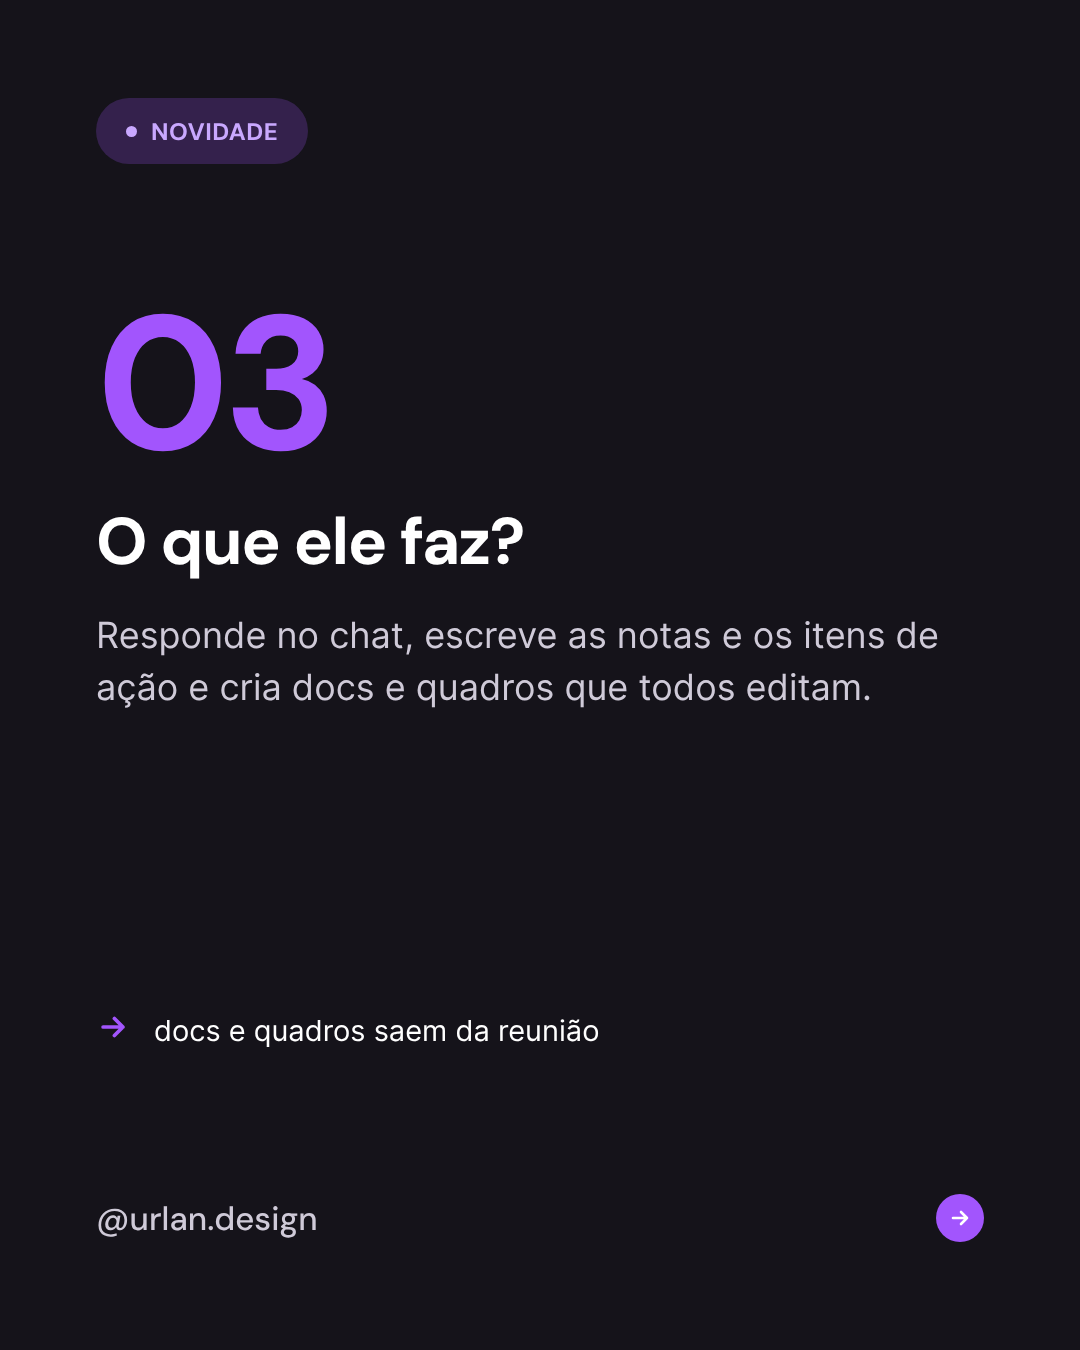
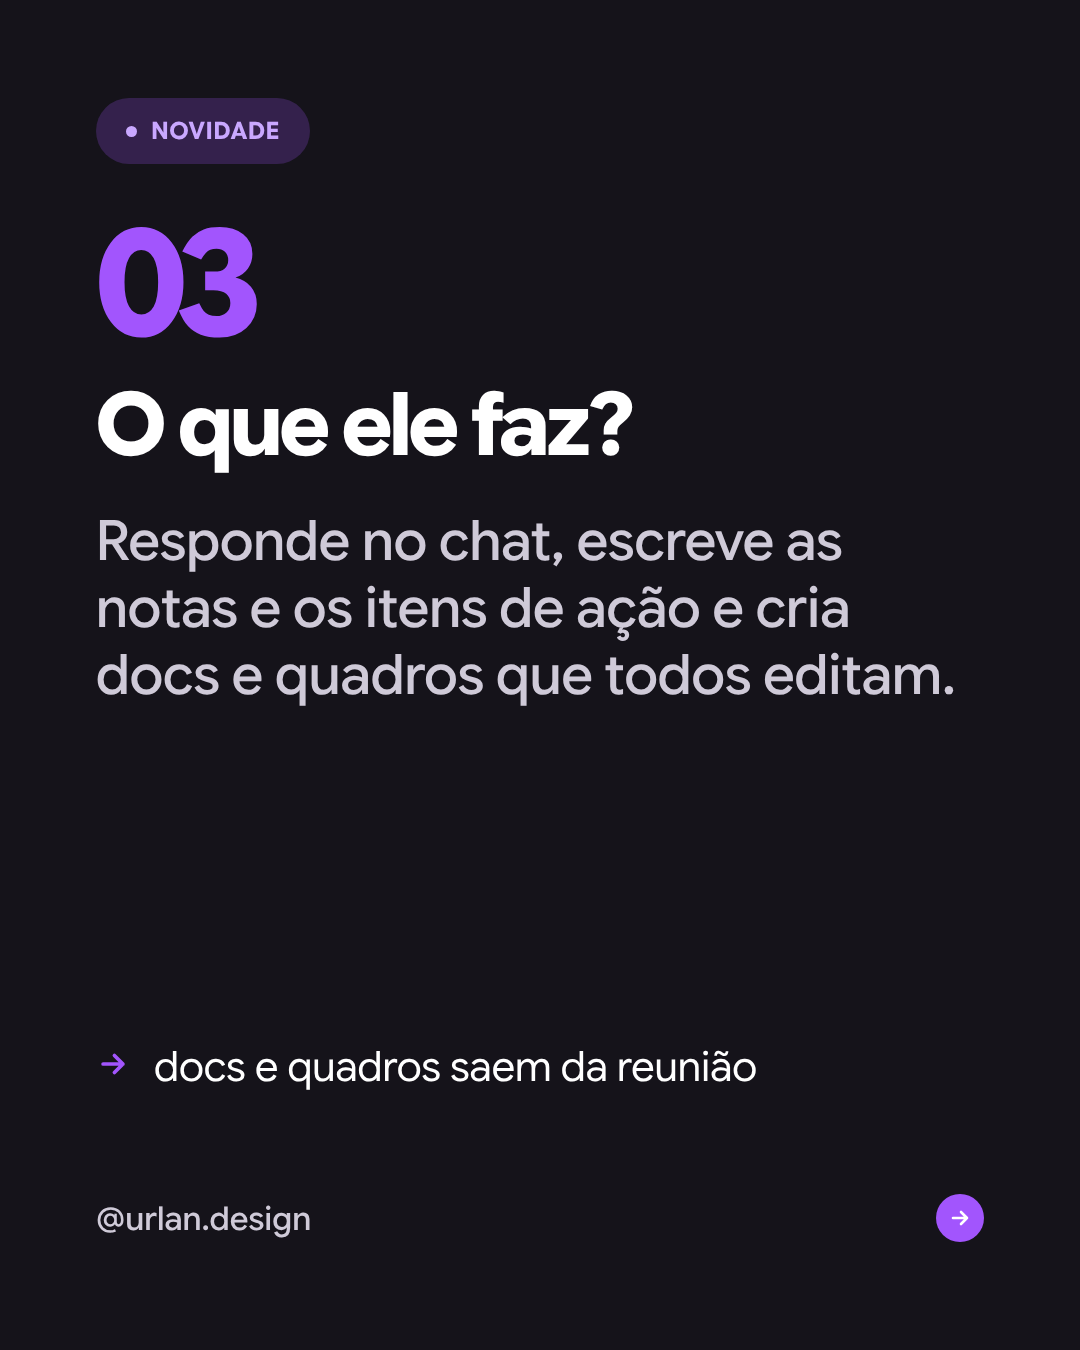
Estilo alternado com opcao grande (fonte maior) nos posts Meetings e Repos parte 3
Claude-Session: https://claude.ai/code/session_01DwYVZ4p9qWAPLeHrrQbmUv

diff --git a/template/render.py b/template/render.py
@@ -342,7 +342,8 @@ def alt_hi(body, destaque, color):
 
 
 def alt_frame(p, th, inner, take):
-    take_html = (f'<div style="position:absolute;left:96px;right:96px;top:1010px;display:flex;align-items:center;gap:24px;font-size:29px;color:{th["take"]}">'
+    big = p.get("grande")
+    take_html = (f'<div style="position:absolute;left:96px;right:96px;top:{1040 if big else 1010}px;display:flex;align-items:center;gap:24px;font-size:{42 if big else 29}px;color:{th["take"]}">'
                  f'<span style="flex:none">{arrow_svg(th["arrow"]).replace("24", "34", 2)}</span><span>{e(take)}</span></div>') if take else ""
     return f"""
 <div class="s" style="background:{th['bg']};color:{th['title']}">
@@ -365,14 +366,21 @@ def alt_content(p, i, s):
   </div>"""
     elif layout == "limite":
         inner = f"""
-  <div style="position:absolute;top:290px;left:96px;right:110px">
-    <div class="h" style="font-size:190px;line-height:1;letter-spacing:-6px;color:{th['num']}">{i:02d}</div>
-    <h2 class="h" style="font-size:66px;line-height:1.1;margin-top:26px;letter-spacing:-1.5px;color:{th['title']}">{e(s['title'])}</h2>
+  <div style="position:absolute;top:{210 if p.get('grande') else 290}px;left:96px;right:110px">
+    <div class="h" style="font-size:{150 if p.get('grande') else 190}px;line-height:1;letter-spacing:-6px;color:{th['num']}">{i:02d}</div>
+    <h2 class="h" style="font-size:{88 if p.get('grande') else 66}px;line-height:1.1;margin-top:{20 if p.get('grande') else 26}px;letter-spacing:-1.5px;color:{th['title']}">{e(s['title'])}</h2>
   </div>
-  <div style="position:absolute;left:96px;right:96px;top:700px;border-radius:32px;background:rgba(255,255,255,.07);border:2px solid rgba(255,255,255,.16);padding:44px 48px 48px">
+  <div style="position:absolute;left:96px;right:96px;top:{560 if p.get('grande') else 700}px;border-radius:32px;background:rgba(255,255,255,.07);border:2px solid rgba(255,255,255,.16);padding:44px 48px 48px">
     <div style="display:inline-flex;align-items:center;height:54px;padding:0 26px;border-radius:999px;background:{th['num']};color:#fff;
          font-family:'DM Sans',sans-serif;font-weight:700;font-size:26px;letter-spacing:1px">BETA</div>
-    <p style="font-size:36px;line-height:1.42;color:{th['body']};margin-top:28px">{e(s['body'])}</p>
+    <p style="font-size:{46 if p.get('grande') else 36}px;line-height:1.3;color:{th['body']};margin-top:28px">{e(s['body'])}</p>
+  </div>"""
+    elif p.get("grande"):
+        inner = f"""
+  <div style="position:absolute;top:210px;left:96px;right:96px">
+    <div class="h" style="font-size:150px;line-height:1;letter-spacing:-5px;color:{th['num']}">{i:02d}</div>
+    <h2 class="h" style="font-size:88px;line-height:1.04;margin-top:20px;letter-spacing:-2.5px;color:{th['title']}">{e(s['title'])}</h2>
+    <p style="font-size:56px;line-height:1.2;font-weight:500;color:{th['body']};margin-top:36px">{e(s['body'])}</p>
   </div>"""
     else:
         inner = f"""
@@ -385,7 +393,7 @@ def alt_content(p, i, s):
     if layout == "limite" and s.get("takeaway"):
         # o resumo vai abaixo do cartão
         out = alt_frame(p, th, inner, None)
-        t = (f'<div style="position:absolute;left:96px;right:96px;top:1090px;display:flex;align-items:center;gap:24px;font-size:29px;color:{th["take"]}">'
+        t = (f'<div style="position:absolute;left:96px;right:96px;top:{1110 if p.get("grande") else 1090}px;display:flex;align-items:center;gap:24px;font-size:{42 if p.get("grande") else 29}px;color:{th["take"]}">'
              f'<span style="flex:none">{arrow_svg(th["arrow"]).replace("24", "34", 2)}</span><span>{e(s["takeaway"])}</span></div>')
         return out.replace('<div class="foot"', t + '\n  <div class="foot"', 1)
     return alt_frame(p, th, inner, take)
